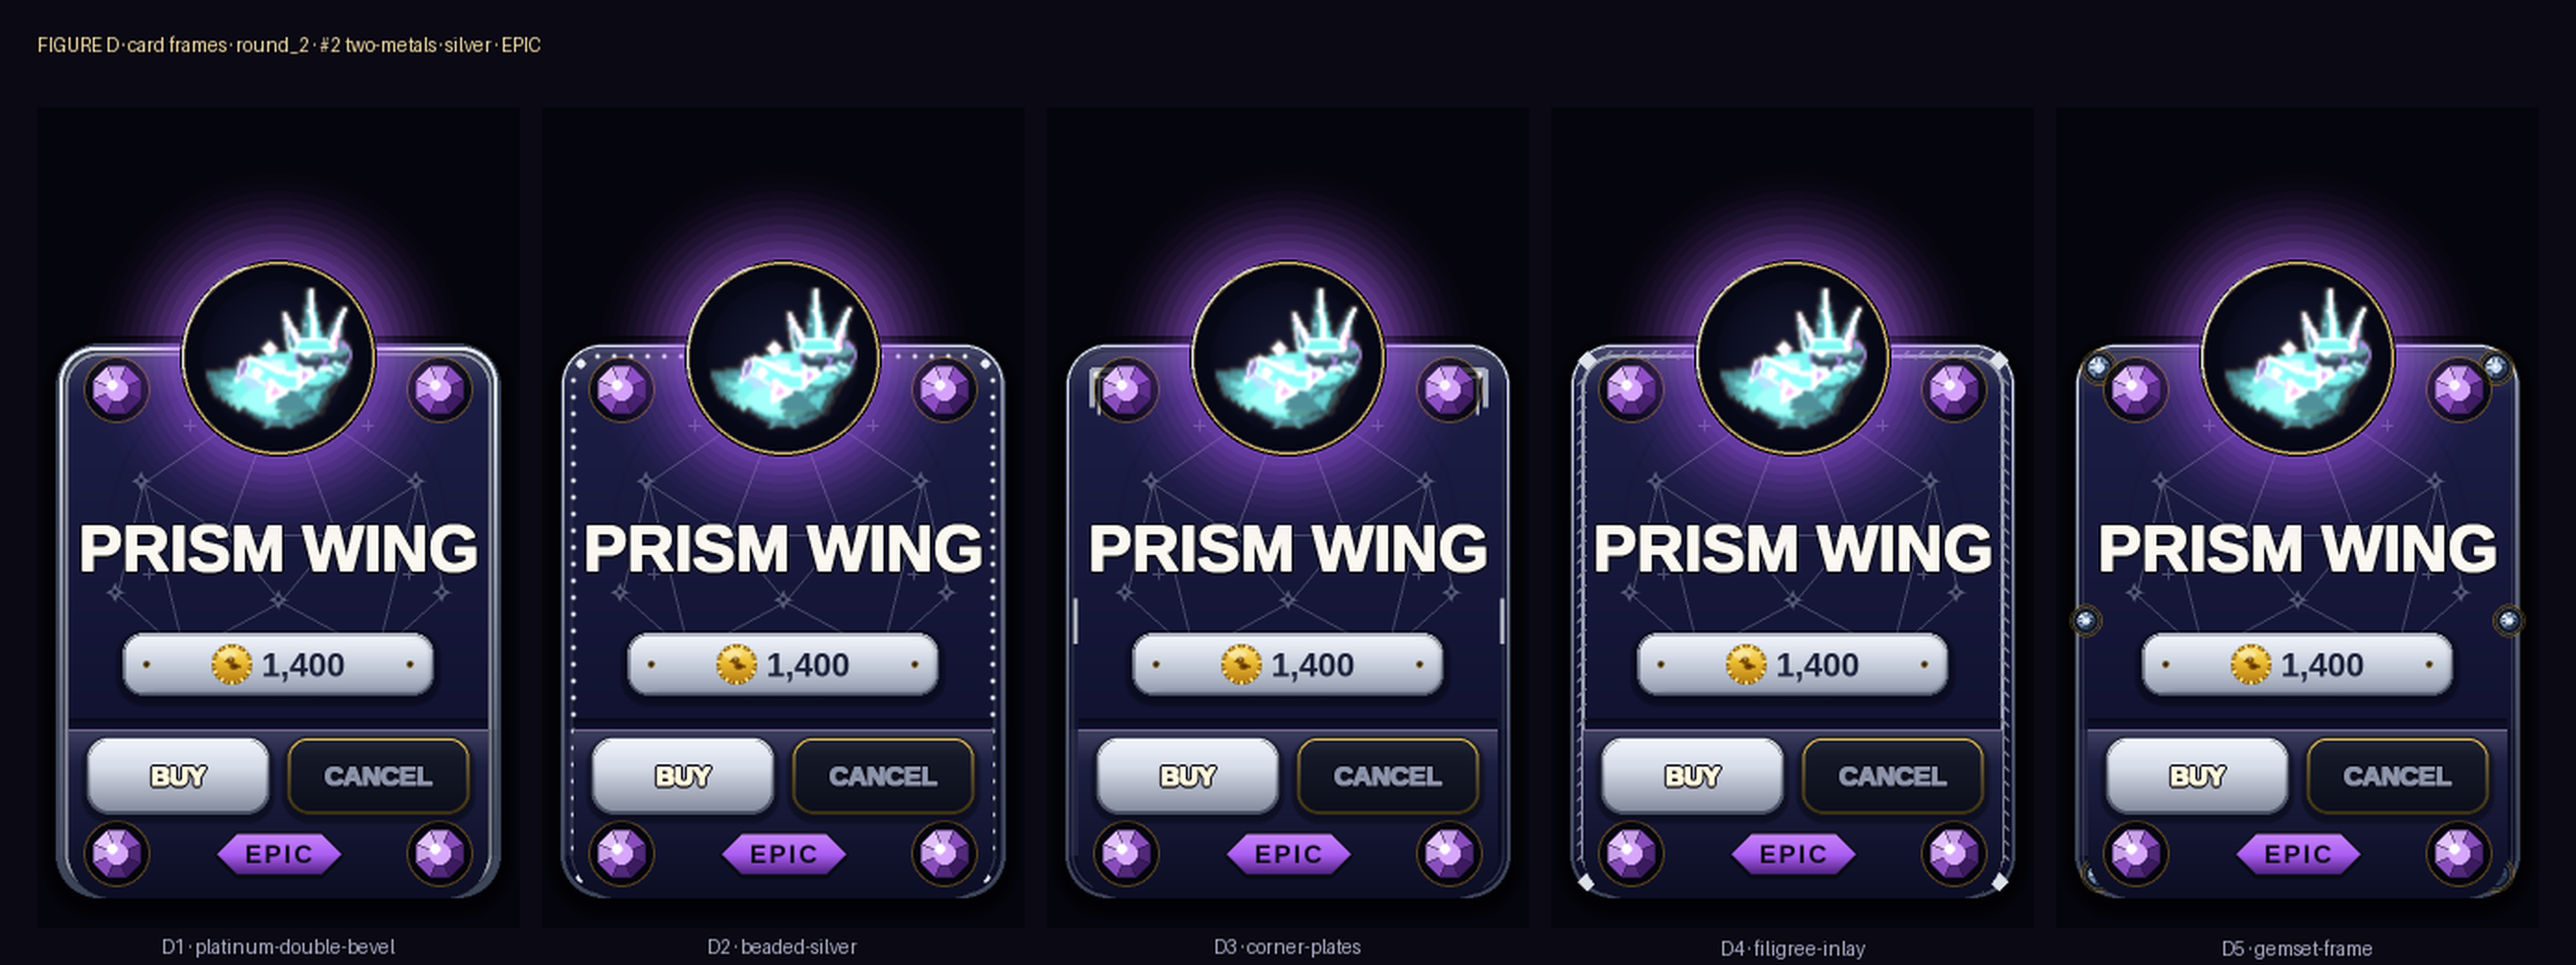
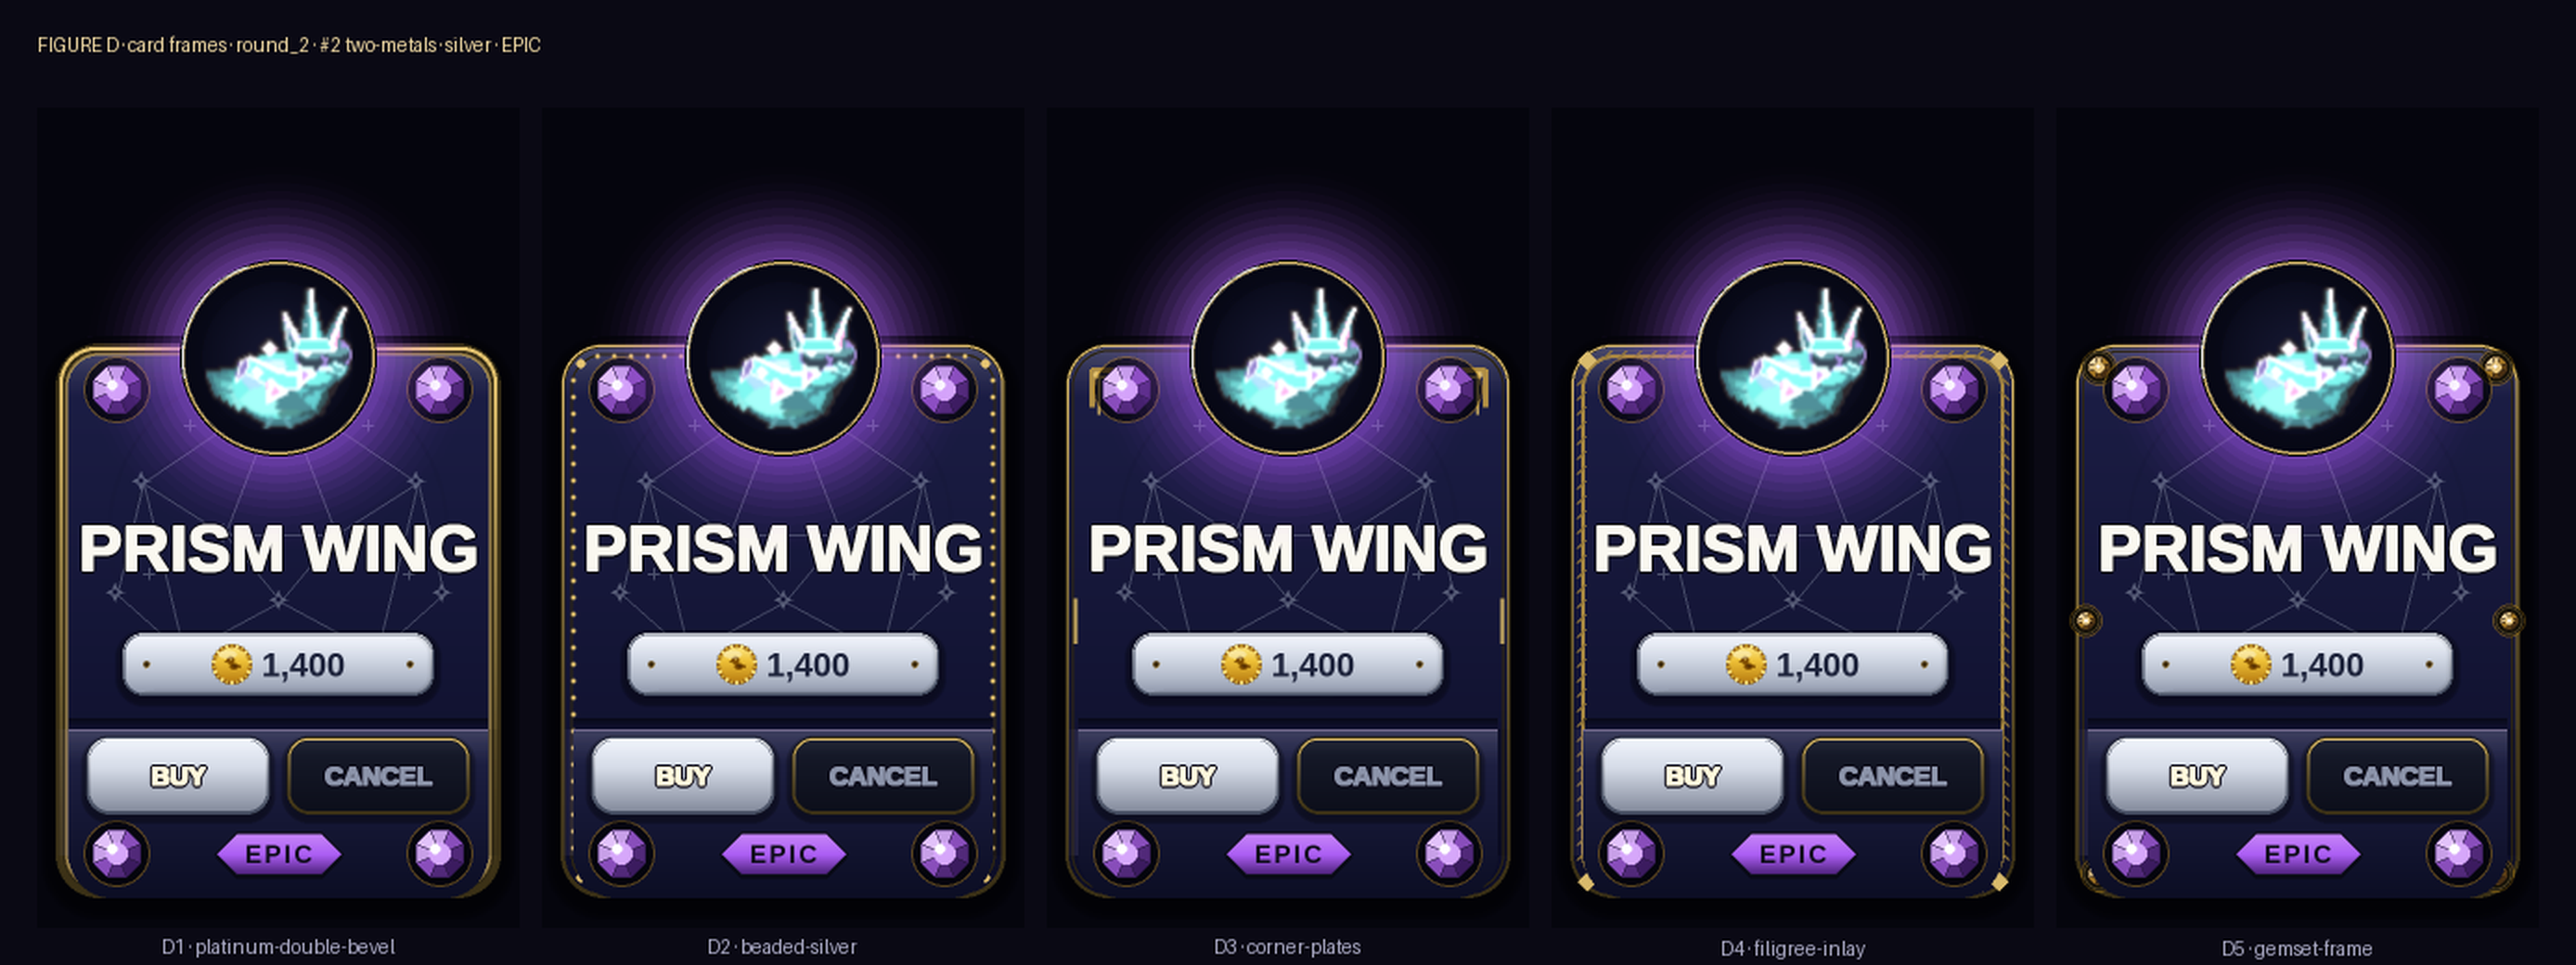
Restore original gold outline colours across the five frame concepts
Frame constructions keep their added presence; the palette returns to the
CARD_RING gold family (with a derived mid-gold and warm stone pips) per
the cleaner-identity verdict.

Claude-Session: https://claude.ai/code/session_01HZruNdjCPrRs3WrJUvXQLo

diff --git a/tools/_confirm_v8_premv1_hybrid2_frames.py b/tools/_confirm_v8_premv1_hybrid2_frames.py
@@ -39,11 +39,13 @@ from PIL import Image, ImageDraw
 
 POP_W, POP_H = 260, 442
 
-SIL_DEEP = (60, 68, 88)
-SIL_MID = (178, 186, 202)
-SIL_BRIGHT = (240, 244, 252)
-GEM_SIL = (168, 196, 232)
-GEM_SIL_DEEP = (52, 72, 104)
+# Frame stays in the popup's ORIGINAL outline gold (CARD_RING family) — the
+# constructions add presence, the colour identity is untouched.
+SIL_DEEP = (58, 48, 22)          # CARD_RING_DEEP
+SIL_MID = (190, 154, 74)         # mid-gold between deep and bright
+SIL_BRIGHT = (236, 202, 116)     # CARD_RING_BRIGHT
+GEM_SIL = (220, 170, 60)
+GEM_SIL_DEEP = (100, 62, 12)
 
 
 def _patched_draw_frames():
